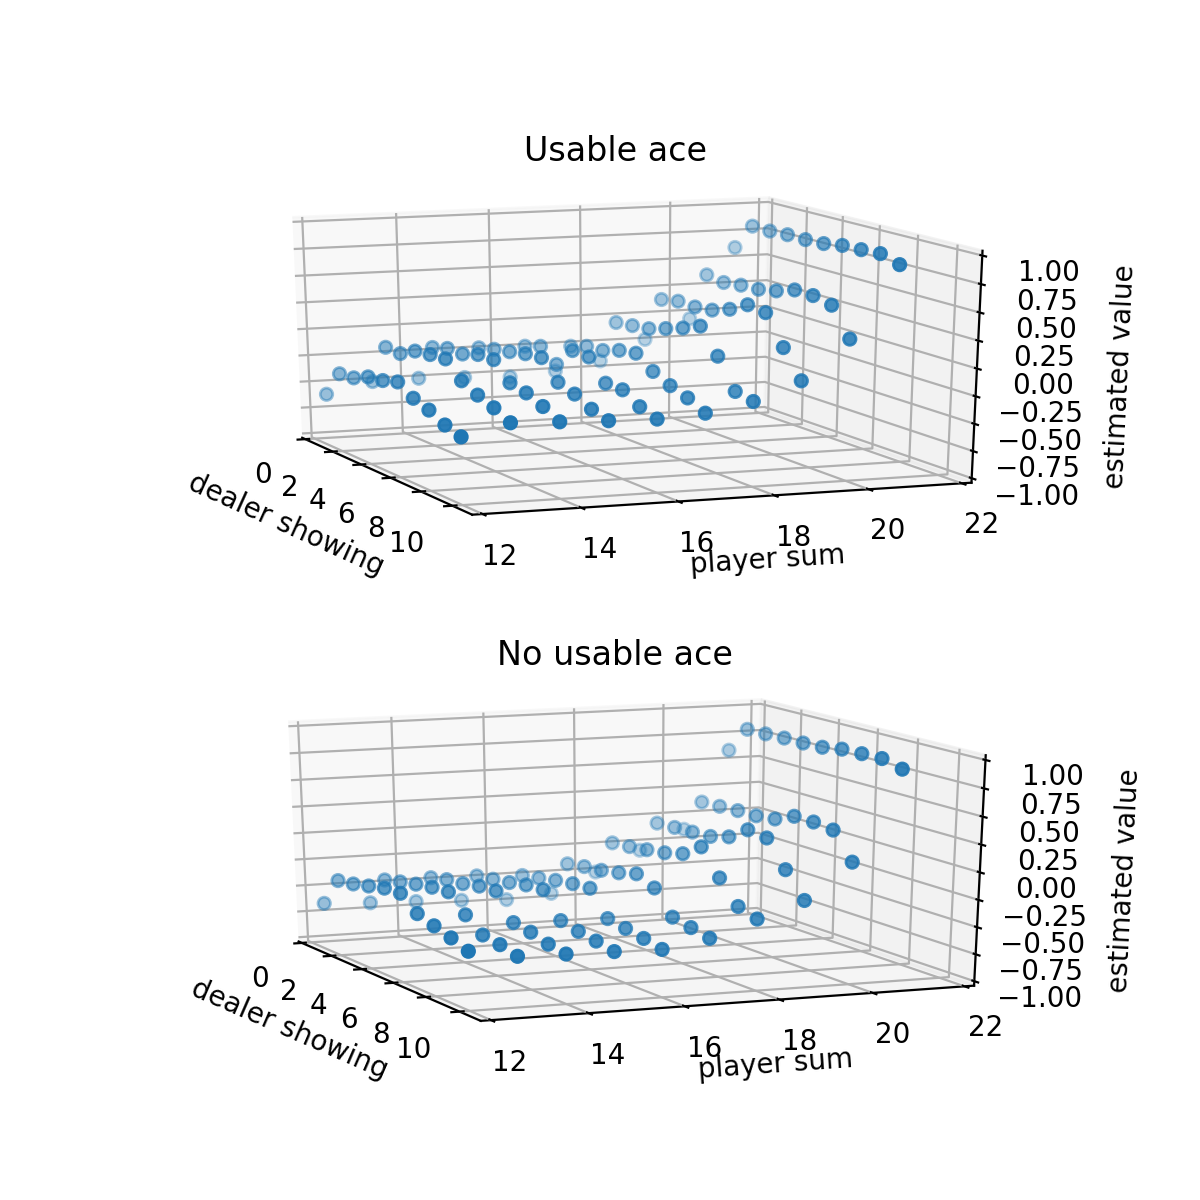
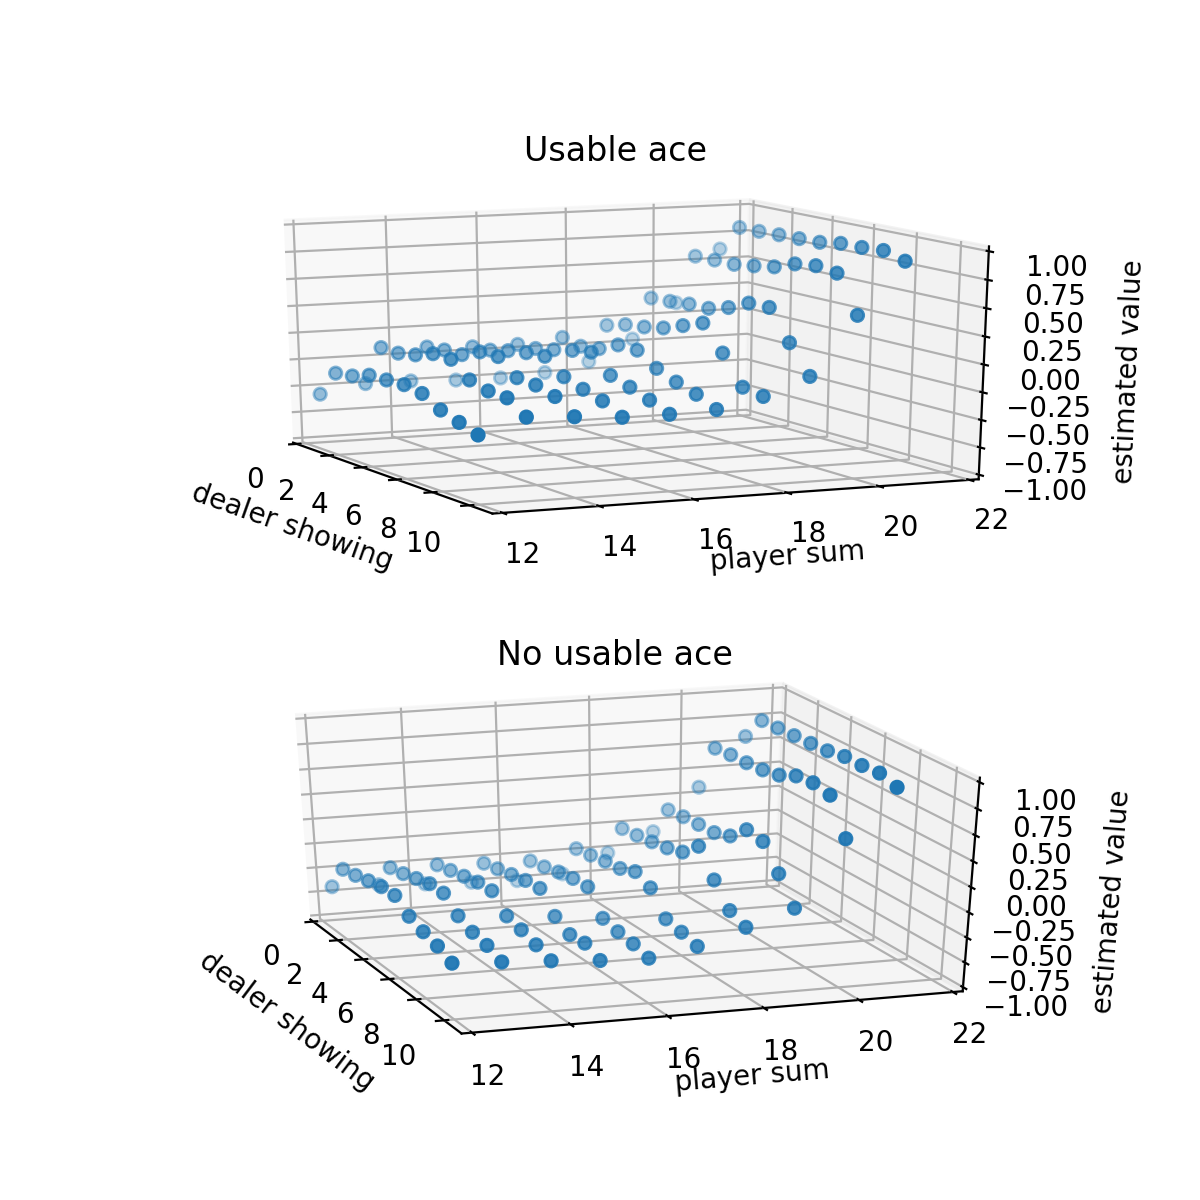
modify initial policy

Changed region(s): [[0.1542, 0.555, 0.9558, 0.925], [0.1542, 0.1542, 0.9558, 0.4933], [0.4933, 0.4317, 0.5242, 0.4625]]

diff --git a/chapter05/blackjack.py b/chapter05/blackjack.py
@@ -90,7 +90,7 @@ class Blackjack(object):
         for psum in range(12,22):
             for seenCard in [0, 2, 3, 4, 5, 6, 7, 8, 9, 10]:
                 for usableAce in ['y', 'n']:
-                    self.policy[psum, seenCard, usableAce] = ["sticks"] if psum==21 else ["sticks", "hits"]
+                    self.policy[psum, seenCard, usableAce] = ["sticks"] if psum==21 or psum==20 else ["sticks", "hits"]
                     self.valueOfState[psum, seenCard, usableAce] = 0.0
                     self.valueOfStateAction[(psum, seenCard, usableAce), "sticks"] = 0.0
                     self.valueOfStateAction[(psum, seenCard, usableAce), "hits"] = 0.0
@@ -205,7 +205,7 @@ if __name__=='__main__':
     figure5_1(blackjack.valueOfState)
 
     # fig 5.3 right
-    blackjack.monteCarloEs(episodes=3000000)
+    blackjack.monteCarloEs(episodes=2000000)
     blackjack.estimateStateValue()
     figure5_1(blackjack.valueOfState)
 
